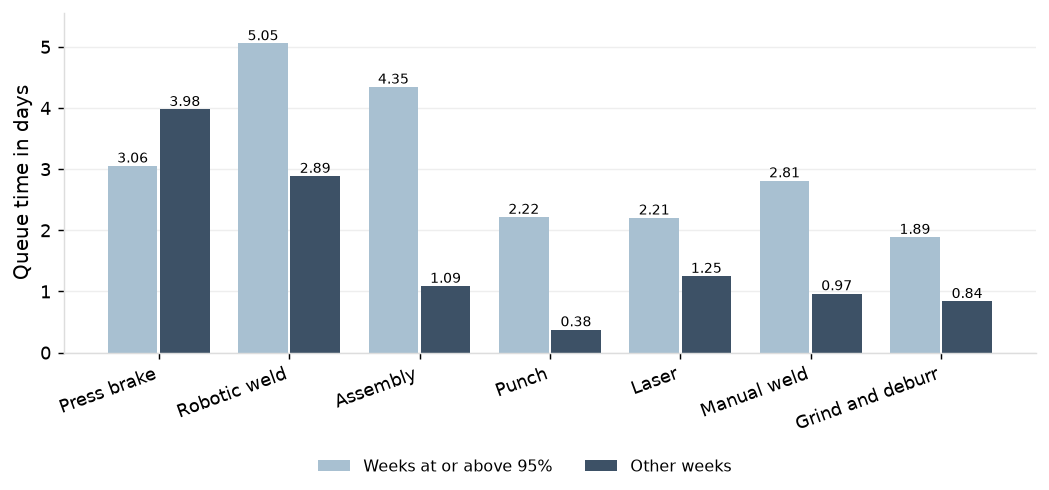
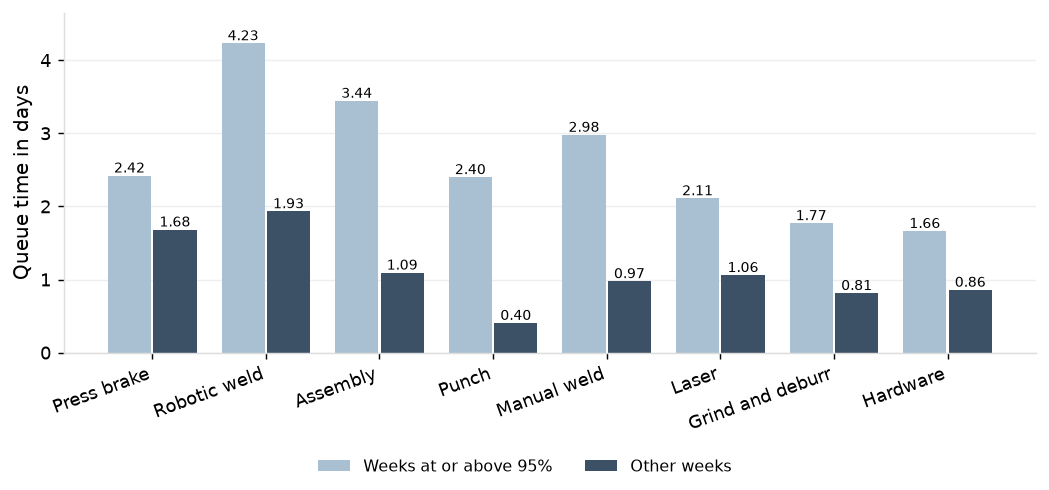
Capacity report: queue time in weeks at or above 95% utilization over 2023 to 2025

diff --git a/docs/reports/capacity_constraints_and_setups.html b/docs/reports/capacity_constraints_and_setups.html
@@ -63,8 +63,8 @@ nav.toc a.sub { font-size: 12px; padding-left: 22px; }
 <div class='chart-title'>Utilization and Machine Uptime by Work Center</div><img alt="Utilization and Machine Uptime by Work Center" src="../figures/constraint_utilization_uptime.png?v=398f0550">
 <p>Not only do the press brakes and robotic weld cell have the highest average utilization, they also spend more time than any other work station at or near maximum utilization. Shown below is the share of weeks in 2025 that each work station spent at or above 95% average utilization. The press brakes and the robotic weld cell were at this level in 46% and 38% of weeks throughout the year. See Appendix Table <a href='#t2'>2</a> for additional detail.</p>
 <div class='chart-title'>Share of weeks at or above 95% utilization, 2025</div><img alt="Share of weeks at or above 95% utilization, 2025" src="../figures/capacity_hot_week_share.png?v=5980e1e8">
-<p>Work stations experienced an increase in queue time when operating near maximum utilization, compared to weeks at lower utilization. Notably, the press brakes were the exception: their queue time in weeks at or above 95% utilization was lower than in their other weeks (3.06 days against 3.98). This is because the other weeks on this station are still running at 85% to 95% utilization in 19 of 28 cases and carry the backlog of the weeks before them.</p>
-<div class='chart-title'>Queue Time in Weeks at or Above 95% Utilization and Other Weeks, 2025</div><img alt="Queue Time in Weeks at or Above 95% Utilization and Other Weeks, 2025" src="../figures/capacity_queue_in_hot_weeks_year.png?v=5e865f9a">
+<p>Work stations experienced an increase in queue time when operating near maximum utilization, compared to weeks at lower utilization. Notably, the increase in queue time in weeks spent at or above 95% utilization was lowest for the press brakes (2.42 days against 1.68, 1.4x). This is because the other weeks on this station still run at high utilization, at 85% to 95% in 19 of 28 such weeks in 2025, and carry the backlog of the weeks before them.</p>
+<div class='chart-title'>Queue Time in Weeks at or Above 95% Utilization and Other Weeks, 2023 to 2025</div><img alt="Queue Time in Weeks at or Above 95% Utilization and Other Weeks, 2023 to 2025" src="../figures/capacity_queue_in_hot_weeks_year.png?v=cd2298d2">
 <p>Throughout 2025, jobs spent 36,318 days waiting at a work center after their first operation. The press brake station accounted for 56% of those days, which is a function of its consistently high utilization, as well as its volume of operations. There were nearly 5,700 brake operations in 2025. The robotic weld cell, which saw similar queue times to the press brakes (3.64 days per operation against 3.54), accounted for less than 5% of queue days, because it saw only 423 operations in 2025.</p>
 <div class='chart-title'>Share of queue days by work center, 2025</div><img alt="Share of queue days by work center, 2025" src="../figures/capacity_share_of_queue_days.png?v=cc48b974">
 <h2 id='f2'>2. Load, Queue Time and WIP</h2>
@@ -128,7 +128,7 @@ nav.toc a.sub { font-size: 12px; padding-left: 22px; }
 <p>With the stale standards refreshed, planned hours rise 1.7% at the brakes and 0.9% to 3.0% elsewhere; standard hours per job rise 8% on jobs for those parts (24% of jobs) and 1.9% overall. With the L2 and L3 run standards set to measured, planned laser hours fall 13.6% and standard hours per job fall 2.6%. Both together move standard hours per job by -0.7%. The 553 stale standards should be refreshed and the L2 and L3 run standards set to measured, with the effect on standard hours per job going to estimating (<a href='quoting_and_early_warning.html'>Quoting and Early Warning from Load</a>). See Appendix Tables <a href='#t30'>30</a> and <a href='#t31'>31</a> for additional detail.</p>
 <h2 id='appendix'>Appendix</h2>
 <h3 id='t1'>Table 1. Utilization and machine uptime by work center</h3><table class="data"><thead><tr><th>Work center</th><th>Machines</th><th>Operations</th><th>Scheduled hours</th><th>Machine hours</th><th>Downtime hours</th><th>Available hours</th><th>Utilization</th><th>Uptime</th><th>Queue time, mean</th><th>Utilization, Q2-Q4</th><th>Uptime, Q2-Q4</th><th>Queue time, mean, Q2-Q4</th></tr></thead><tbody><tr><td class="">Press brake</td><td class="">5</td><td class="">5,692</td><td class="">18,300</td><td class="">16,268</td><td class="">470</td><td class="">17,830</td><td class="">91%</td><td class="">97%</td><td class="">3.54</td><td class="">91%</td><td class="">97%</td><td class="">1.77</td></tr><tr><td class="">Robotic weld</td><td class="">1</td><td class="">423</td><td class="">1,992</td><td class="">1,598</td><td class="">57</td><td class="">1,935</td><td class="">83%</td><td class="">97%</td><td class="">3.64</td><td class="">83%</td><td class="">97%</td><td class="">3.93</td></tr><tr><td class="">Laser</td><td class="">3</td><td class="">4,378</td><td class="">10,152</td><td class="">7,242</td><td class="">329</td><td class="">9,823</td><td class="">74%</td><td class="">97%</td><td class=""></td><td class="">74%</td><td class="">97%</td><td class=""></td></tr><tr><td class="">Assembly</td><td class="">2</td><td class="">695</td><td class="">3,984</td><td class="">2,669</td><td class="">100</td><td class="">3,884</td><td class="">69%</td><td class="">97%</td><td class="">1.91</td><td class="">67%</td><td class="">97%</td><td class="">1.58</td></tr><tr><td class="">Inspection and pack</td><td class="">2</td><td class="">5,241</td><td class="">3,984</td><td class="">2,573</td><td class="">144</td><td class="">3,840</td><td class="">67%</td><td class="">96%</td><td class="">0.65</td><td class="">65%</td><td class="">96%</td><td class="">0.68</td></tr><tr><td class="">Grind and deburr</td><td class="">2</td><td class="">5,680</td><td class="">3,984</td><td class="">2,586</td><td class="">115</td><td class="">3,869</td><td class="">67%</td><td class="">97%</td><td class="">0.88</td><td class="">65%</td><td class="">97%</td><td class="">0.79</td></tr><tr><td class="">Manual weld</td><td class="">6</td><td class="">1,568</td><td class="">11,952</td><td class="">7,693</td><td class="">346</td><td class="">11,606</td><td class="">66%</td><td class="">97%</td><td class="">1.07</td><td class="">62%</td><td class="">97%</td><td class="">0.83</td></tr><tr><td class="">Punch</td><td class="">1</td><td class="">820</td><td class="">1,992</td><td class="">1,284</td><td class="">49</td><td class="">1,943</td><td class="">66%</td><td class="">98%</td><td class=""></td><td class="">64%</td><td class="">98%</td><td class=""></td></tr><tr><td class="">Hardware</td><td class="">2</td><td class="">2,167</td><td class="">3,984</td><td class="">2,572</td><td class="">83</td><td class="">3,901</td><td class="">66%</td><td class="">98%</td><td class="">0.87</td><td class="">65%</td><td class="">98%</td><td class="">0.87</td></tr><tr><td class="">Powder coat</td><td class="">1</td><td class="">2,367</td><td class="">2,044</td><td class="">1,106</td><td class="">53</td><td class="">1,991</td><td class="">56%</td><td class="">97%</td><td class="">0.56</td><td class="">54%</td><td class="">98%</td><td class="">0.53</td></tr></tbody></table>
-<h3 id='t2'>Table 2. Weekly utilization at or above 95% by work center: weeks, queue time, jobs at the work center and share of hours</h3><p><b>2025</b></p><table class="data"><thead><tr><th>Work center</th><th>Utilization</th><th>Weeks at or above 95%</th><th>Of which full five-day weeks</th><th>Queue time in those weeks</th><th>Queue time in the other weeks</th><th>Jobs at the work center in those weeks, daily mean</th><th>Jobs at the work center in the other weeks, daily mean</th><th>Share of machine hours in those weeks</th></tr></thead><tbody><tr><td class="">Press brake</td><td class="">91%</td><td class="">24 of 52</td><td class="">20</td><td class="">3.06</td><td class="">3.98</td><td class="">63.5</td><td class="">86.0</td><td class="">48%</td></tr><tr><td class="">Robotic weld</td><td class="">83%</td><td class="">20 of 52</td><td class="">15</td><td class="">5.05</td><td class="">2.89</td><td class="">9.2</td><td class="">5.5</td><td class="">44%</td></tr><tr><td class="">Laser</td><td class="">74%</td><td class="">4 of 52</td><td class="">3</td><td class="">2.21</td><td class="">1.25</td><td class="">91.3</td><td class="">48.4</td><td class="">9%</td></tr><tr><td class="">Assembly</td><td class="">69%</td><td class="">11 of 52</td><td class="">10</td><td class="">4.35</td><td class="">1.09</td><td class="">12.7</td><td class="">4.6</td><td class="">30%</td></tr><tr><td class="">Inspection and pack</td><td class="">67%</td><td class="">0 of 52</td><td class="">0</td><td class=""></td><td class="">0.65</td><td class=""></td><td class="">14.5</td><td class="">0%</td></tr><tr><td class="">Grind and deburr</td><td class="">67%</td><td class="">2 of 52</td><td class="">1</td><td class="">1.89</td><td class="">0.84</td><td class="">45.8</td><td class="">19.9</td><td class="">4%</td></tr><tr><td class="">Manual weld</td><td class="">66%</td><td class="">3 of 52</td><td class="">3</td><td class="">2.81</td><td class="">0.97</td><td class="">28.4</td><td class="">9.4</td><td class="">9%</td></tr><tr><td class="">Punch</td><td class="">66%</td><td class="">10 of 52</td><td class="">8</td><td class="">2.22</td><td class="">0.38</td><td class="">13.3</td><td class="">6.8</td><td class="">27%</td></tr><tr><td class="">Hardware</td><td class="">66%</td><td class="">0 of 52</td><td class="">0</td><td class=""></td><td class="">0.87</td><td class=""></td><td class="">9.5</td><td class="">0%</td></tr><tr><td class="">Powder coat</td><td class="">56%</td><td class="">0 of 52</td><td class="">0</td><td class=""></td><td class="">0.56</td><td class=""></td><td class="">15.1</td><td class="">0%</td></tr></tbody></table><p><b>2025 Q2-Q4</b></p><table class="data"><thead><tr><th>Work center</th><th>Utilization</th><th>Weeks at or above 95%</th><th>Of which full five-day weeks</th><th>Queue time in those weeks</th><th>Queue time in the other weeks</th><th>Jobs at the work center in those weeks, daily mean</th><th>Jobs at the work center in the other weeks, daily mean</th><th>Share of machine hours in those weeks</th></tr></thead><tbody><tr><td class="">Press brake</td><td class="">91%</td><td class="">21 of 39</td><td class="">17</td><td class="">2.00</td><td class="">1.57</td><td class="">41.0</td><td class="">35.0</td><td class="">57%</td></tr><tr><td class="">Robotic weld</td><td class="">83%</td><td class="">17 of 39</td><td class="">13</td><td class="">5.26</td><td class="">2.94</td><td class="">9.9</td><td class="">5.9</td><td class="">50%</td></tr><tr><td class="">Laser</td><td class="">74%</td><td class="">3 of 39</td><td class="">3</td><td class="">1.99</td><td class="">0.83</td><td class="">78.8</td><td class="">46.3</td><td class="">10%</td></tr><tr><td class="">Assembly</td><td class="">67%</td><td class="">5 of 39</td><td class="">5</td><td class="">3.72</td><td class="">1.15</td><td class="">10.9</td><td class="">5.0</td><td class="">19%</td></tr><tr><td class="">Hardware</td><td class="">65%</td><td class="">0 of 39</td><td class="">0</td><td class=""></td><td class="">0.88</td><td class=""></td><td class="">9.8</td><td class="">0%</td></tr><tr><td class="">Inspection and pack</td><td class="">65%</td><td class="">0 of 39</td><td class="">0</td><td class=""></td><td class="">0.68</td><td class=""></td><td class="">15.3</td><td class="">0%</td></tr><tr><td class="">Grind and deburr</td><td class="">65%</td><td class="">0 of 39</td><td class="">0</td><td class=""></td><td class="">0.79</td><td class=""></td><td class="">19.6</td><td class="">0%</td></tr><tr><td class="">Punch</td><td class="">64%</td><td class="">7 of 39</td><td class="">6</td><td class="">1.26</td><td class="">0.26</td><td class="">11.2</td><td class="">6.6</td><td class="">27%</td></tr><tr><td class="">Manual weld</td><td class="">62%</td><td class="">1 of 39</td><td class="">1</td><td class="">2.58</td><td class="">0.78</td><td class="">25.4</td><td class="">8.5</td><td class="">4%</td></tr><tr><td class="">Powder coat</td><td class="">54%</td><td class="">0 of 39</td><td class="">0</td><td class=""></td><td class="">0.53</td><td class=""></td><td class="">14.4</td><td class="">0%</td></tr></tbody></table><p><b>Brake queue 90th percentile by quarter, 2025</b></p><table class="data"><thead><tr><th>Q1</th><th>Q2</th><th>Q3</th><th>Q4</th></tr></thead><tbody><tr><td class="">17.1</td><td class="">9.1</td><td class="">2.8</td><td class="">3.0</td></tr></tbody></table>
+<h3 id='t2'>Table 2. Weekly utilization at or above 95% by work center: weeks, queue time, jobs at the work center and share of hours</h3><p><b>2025</b></p><table class="data"><thead><tr><th>Work center</th><th>Utilization</th><th>Weeks at or above 95%</th><th>Of which full five-day weeks</th><th>Queue time in those weeks</th><th>Queue time in the other weeks</th><th>Jobs at the work center in those weeks, daily mean</th><th>Jobs at the work center in the other weeks, daily mean</th><th>Share of machine hours in those weeks</th></tr></thead><tbody><tr><td class="">Press brake</td><td class="">91%</td><td class="">24 of 52</td><td class="">20</td><td class="">3.06</td><td class="">3.98</td><td class="">63.5</td><td class="">86.0</td><td class="">48%</td></tr><tr><td class="">Robotic weld</td><td class="">83%</td><td class="">20 of 52</td><td class="">15</td><td class="">5.05</td><td class="">2.89</td><td class="">9.2</td><td class="">5.5</td><td class="">44%</td></tr><tr><td class="">Laser</td><td class="">74%</td><td class="">4 of 52</td><td class="">3</td><td class="">2.21</td><td class="">1.25</td><td class="">91.3</td><td class="">48.4</td><td class="">9%</td></tr><tr><td class="">Assembly</td><td class="">69%</td><td class="">11 of 52</td><td class="">10</td><td class="">4.35</td><td class="">1.09</td><td class="">12.7</td><td class="">4.6</td><td class="">30%</td></tr><tr><td class="">Inspection and pack</td><td class="">67%</td><td class="">0 of 52</td><td class="">0</td><td class=""></td><td class="">0.65</td><td class=""></td><td class="">14.5</td><td class="">0%</td></tr><tr><td class="">Grind and deburr</td><td class="">67%</td><td class="">2 of 52</td><td class="">1</td><td class="">1.89</td><td class="">0.84</td><td class="">45.8</td><td class="">19.9</td><td class="">4%</td></tr><tr><td class="">Manual weld</td><td class="">66%</td><td class="">3 of 52</td><td class="">3</td><td class="">2.81</td><td class="">0.97</td><td class="">28.4</td><td class="">9.4</td><td class="">9%</td></tr><tr><td class="">Punch</td><td class="">66%</td><td class="">10 of 52</td><td class="">8</td><td class="">2.22</td><td class="">0.38</td><td class="">13.3</td><td class="">6.8</td><td class="">27%</td></tr><tr><td class="">Hardware</td><td class="">66%</td><td class="">0 of 52</td><td class="">0</td><td class=""></td><td class="">0.87</td><td class=""></td><td class="">9.5</td><td class="">0%</td></tr><tr><td class="">Powder coat</td><td class="">56%</td><td class="">0 of 52</td><td class="">0</td><td class=""></td><td class="">0.56</td><td class=""></td><td class="">15.1</td><td class="">0%</td></tr></tbody></table><p><b>2025 Q2-Q4</b></p><table class="data"><thead><tr><th>Work center</th><th>Utilization</th><th>Weeks at or above 95%</th><th>Of which full five-day weeks</th><th>Queue time in those weeks</th><th>Queue time in the other weeks</th><th>Jobs at the work center in those weeks, daily mean</th><th>Jobs at the work center in the other weeks, daily mean</th><th>Share of machine hours in those weeks</th></tr></thead><tbody><tr><td class="">Press brake</td><td class="">91%</td><td class="">21 of 39</td><td class="">17</td><td class="">2.00</td><td class="">1.57</td><td class="">41.0</td><td class="">35.0</td><td class="">57%</td></tr><tr><td class="">Robotic weld</td><td class="">83%</td><td class="">17 of 39</td><td class="">13</td><td class="">5.26</td><td class="">2.94</td><td class="">9.9</td><td class="">5.9</td><td class="">50%</td></tr><tr><td class="">Laser</td><td class="">74%</td><td class="">3 of 39</td><td class="">3</td><td class="">1.99</td><td class="">0.83</td><td class="">78.8</td><td class="">46.3</td><td class="">10%</td></tr><tr><td class="">Assembly</td><td class="">67%</td><td class="">5 of 39</td><td class="">5</td><td class="">3.72</td><td class="">1.15</td><td class="">10.9</td><td class="">5.0</td><td class="">19%</td></tr><tr><td class="">Hardware</td><td class="">65%</td><td class="">0 of 39</td><td class="">0</td><td class=""></td><td class="">0.88</td><td class=""></td><td class="">9.8</td><td class="">0%</td></tr><tr><td class="">Inspection and pack</td><td class="">65%</td><td class="">0 of 39</td><td class="">0</td><td class=""></td><td class="">0.68</td><td class=""></td><td class="">15.3</td><td class="">0%</td></tr><tr><td class="">Grind and deburr</td><td class="">65%</td><td class="">0 of 39</td><td class="">0</td><td class=""></td><td class="">0.79</td><td class=""></td><td class="">19.6</td><td class="">0%</td></tr><tr><td class="">Punch</td><td class="">64%</td><td class="">7 of 39</td><td class="">6</td><td class="">1.26</td><td class="">0.26</td><td class="">11.2</td><td class="">6.6</td><td class="">27%</td></tr><tr><td class="">Manual weld</td><td class="">62%</td><td class="">1 of 39</td><td class="">1</td><td class="">2.58</td><td class="">0.78</td><td class="">25.4</td><td class="">8.5</td><td class="">4%</td></tr><tr><td class="">Powder coat</td><td class="">54%</td><td class="">0 of 39</td><td class="">0</td><td class=""></td><td class="">0.53</td><td class=""></td><td class="">14.4</td><td class="">0%</td></tr></tbody></table><p><b>2023 to 2025</b></p><table class="data"><thead><tr><th>Work center</th><th>Weeks at or above 95%</th><th>Queue time in those weeks</th><th>Queue time in the other weeks</th></tr></thead><tbody><tr><td class="">Press brake</td><td class="">40 of 155</td><td class="">2.42</td><td class="">1.68</td></tr><tr><td class="">Robotic weld</td><td class="">39 of 155</td><td class="">4.23</td><td class="">1.93</td></tr><tr><td class="">Assembly</td><td class="">20 of 155</td><td class="">3.44</td><td class="">1.09</td></tr><tr><td class="">Punch</td><td class="">18 of 155</td><td class="">2.40</td><td class="">0.40</td></tr><tr><td class="">Manual weld</td><td class="">7 of 155</td><td class="">2.98</td><td class="">0.97</td></tr><tr><td class="">Laser</td><td class="">6 of 155</td><td class="">2.11</td><td class="">1.06</td></tr><tr><td class="">Grind and deburr</td><td class="">3 of 155</td><td class="">1.77</td><td class="">0.81</td></tr><tr><td class="">Hardware</td><td class="">2 of 155</td><td class="">1.66</td><td class="">0.86</td></tr><tr><td class="">Powder coat</td><td class="">0 of 155</td><td class=""></td><td class="">0.54</td></tr><tr><td class="">Inspection and pack</td><td class="">0 of 155</td><td class=""></td><td class="">0.68</td></tr></tbody></table><p><b>Brake queue 90th percentile by quarter, 2025</b></p><table class="data"><thead><tr><th>Q1</th><th>Q2</th><th>Q3</th><th>Q4</th></tr></thead><tbody><tr><td class="">17.1</td><td class="">9.1</td><td class="">2.8</td><td class="">3.0</td></tr></tbody></table>
 <h3 id='t3'>Table 3. Weekly queue time by utilization band and work center, full weeks 2023 to 2025</h3><table class="data"><thead><tr><th>Work center</th><th>Utilization in the week</th><th>Weeks</th><th>Queue time, mean of weeks</th><th>Median</th></tr></thead><tbody><tr><td class="">Press brake</td><td class="">below 80%</td><td class="">55</td><td class="">0.45</td><td class="">0.32</td></tr><tr><td class="">Press brake</td><td class="">80% to 85%</td><td class="">12</td><td class="">0.47</td><td class="">0.40</td></tr><tr><td class="">Press brake</td><td class="">85% to 90%</td><td class="">14</td><td class="">2.68</td><td class="">1.08</td></tr><tr><td class="">Press brake</td><td class="">90% to 95%</td><td class="">24</td><td class="">3.37</td><td class="">2.06</td></tr><tr><td class="">Press brake</td><td class="">at or above 95%</td><td class="">33</td><td class="">2.41</td><td class="">1.31</td></tr><tr><td class="">Robotic weld</td><td class="">below 80%</td><td class="">74</td><td class="">1.17</td><td class="">0.67</td></tr><tr><td class="">Robotic weld</td><td class="">80% to 85%</td><td class="">15</td><td class="">2.81</td><td class="">1.84</td></tr><tr><td class="">Robotic weld</td><td class="">85% to 90%</td><td class="">11</td><td class="">3.84</td><td class="">3.52</td></tr><tr><td class="">Robotic weld</td><td class="">90% to 95%</td><td class="">6</td><td class="">1.73</td><td class="">1.83</td></tr><tr><td class="">Robotic weld</td><td class="">at or above 95%</td><td class="">30</td><td class="">4.34</td><td class="">3.71</td></tr><tr><td class="">Laser</td><td class="">below 80%</td><td class="">101</td><td class="">0.68</td><td class="">0.58</td></tr><tr><td class="">Laser</td><td class="">80% to 85%</td><td class="">15</td><td class="">1.30</td><td class="">1.00</td></tr><tr><td class="">Laser</td><td class="">85% to 90%</td><td class="">10</td><td class="">1.28</td><td class="">0.92</td></tr><tr><td class="">Laser</td><td class="">90% to 95%</td><td class="">7</td><td class="">2.82</td><td class="">2.54</td></tr><tr><td class="">Laser</td><td class="">at or above 95%</td><td class="">5</td><td class="">2.07</td><td class="">1.99</td></tr><tr><td class="">Assembly</td><td class="">below 80%</td><td class="">108</td><td class="">0.81</td><td class="">0.71</td></tr><tr><td class="">Assembly</td><td class="">80% to 85%</td><td class="">4</td><td class="">1.80</td><td class="">1.92</td></tr><tr><td class="">Assembly</td><td class="">85% to 90%</td><td class="">5</td><td class="">2.09</td><td class="">0.82</td></tr><tr><td class="">Assembly</td><td class="">90% to 95%</td><td class="">4</td><td class="">1.86</td><td class="">1.80</td></tr><tr><td class="">Assembly</td><td class="">at or above 95%</td><td class="">17</td><td class="">3.15</td><td class="">2.41</td></tr><tr><td class="">Inspection and pack</td><td class="">below 80%</td><td class="">130</td><td class="">0.67</td><td class="">0.67</td></tr><tr><td class="">Inspection and pack</td><td class="">80% to 85%</td><td class="">7</td><td class="">0.65</td><td class="">0.66</td></tr><tr><td class="">Inspection and pack</td><td class="">85% to 90%</td><td class="">1</td><td class="">0.64</td><td class="">0.64</td></tr><tr><td class="">Grind and deburr</td><td class="">below 80%</td><td class="">125</td><td class="">0.77</td><td class="">0.75</td></tr><tr><td class="">Grind and deburr</td><td class="">80% to 85%</td><td class="">8</td><td class="">1.06</td><td class="">1.03</td></tr><tr><td class="">Grind and deburr</td><td class="">85% to 90%</td><td class="">3</td><td class="">0.75</td><td class="">0.73</td></tr><tr><td class="">Grind and deburr</td><td class="">at or above 95%</td><td class="">2</td><td class="">1.60</td><td class="">1.60</td></tr><tr><td class="">Manual weld</td><td class="">below 80%</td><td class="">109</td><td class="">0.71</td><td class="">0.67</td></tr><tr><td class="">Manual weld</td><td class="">80% to 85%</td><td class="">9</td><td class="">1.03</td><td class="">0.98</td></tr><tr><td class="">Manual weld</td><td class="">85% to 90%</td><td class="">10</td><td class="">1.65</td><td class="">0.83</td></tr><tr><td class="">Manual weld</td><td class="">90% to 95%</td><td class="">4</td><td class="">1.48</td><td class="">1.03</td></tr><tr><td class="">Manual weld</td><td class="">at or above 95%</td><td class="">6</td><td class="">3.26</td><td class="">2.50</td></tr><tr><td class="">Punch</td><td class="">below 80%</td><td class="">111</td><td class="">0.19</td><td class="">0.09</td></tr><tr><td class="">Punch</td><td class="">80% to 85%</td><td class="">3</td><td class="">0.48</td><td class="">0.52</td></tr><tr><td class="">Punch</td><td class="">85% to 90%</td><td class="">5</td><td class="">1.96</td><td class="">2.03</td></tr><tr><td class="">Punch</td><td class="">90% to 95%</td><td class="">5</td><td class="">0.87</td><td class="">0.93</td></tr><tr><td class="">Punch</td><td class="">at or above 95%</td><td class="">14</td><td class="">2.02</td><td class="">1.52</td></tr><tr><td class="">Hardware</td><td class="">below 80%</td><td class="">120</td><td class="">0.80</td><td class="">0.77</td></tr><tr><td class="">Hardware</td><td class="">80% to 85%</td><td class="">8</td><td class="">0.97</td><td class="">0.89</td></tr><tr><td class="">Hardware</td><td class="">85% to 90%</td><td class="">6</td><td class="">1.01</td><td class="">0.99</td></tr><tr><td class="">Hardware</td><td class="">90% to 95%</td><td class="">2</td><td class="">1.07</td><td class="">1.07</td></tr><tr><td class="">Hardware</td><td class="">at or above 95%</td><td class="">2</td><td class="">1.64</td><td class="">1.64</td></tr><tr><td class="">Powder coat</td><td class="">below 80%</td><td class="">138</td><td class="">0.52</td><td class="">0.46</td></tr></tbody></table><p><b>Manual weld, split at 85% utilization, full weeks 2023 to 2025</b></p><table class="data"><thead><tr><th>Manual weld</th><th>Weeks</th><th>Queue time, mean of weeks</th></tr></thead><tbody><tr><td class="">Below 85%</td><td class="">118</td><td class="">0.74</td></tr><tr><td class="">At or above 85%</td><td class="">20</td><td class="">2.10</td></tr><tr><td class="">Weeks of 2025 at or above 85%</td><td class="">11 of 52</td><td class=""></td></tr></tbody></table>
 <h3 id='t4'>Table 4. Fitted queue time curve by work center</h3><table class="data"><thead><tr><th>Work center</th><th>Machines (m)</th><th>Scale k</th><th>R-squared, 13-week</th><th>Rank correlation</th><th>Utilization range fitted</th><th>R-squared, single weeks</th><th>Queue time at 75%</th><th>At 85%</th><th>At 90%</th><th>At 92%</th></tr></thead><tbody><tr><td class="">Punch</td><td class="">1</td><td class="">0.386</td><td class="">0.64</td><td class="">0.83</td><td class="">43% to 81%</td><td class="">-0.01</td><td class="">1.16</td><td class="">2.19</td><td class="">3.48</td><td class="">4.44</td></tr><tr><td class="">Assembly</td><td class="">2</td><td class="">1.598</td><td class="">0.61</td><td class="">0.86</td><td class="">41% to 86%</td><td class="">-0.56</td><td class="">2.11</td><td class="">4.21</td><td class="">6.86</td><td class="">8.85</td></tr><tr><td class="">Robotic weld</td><td class="">1</td><td class="">0.599</td><td class="">0.60</td><td class="">0.83</td><td class="">38% to 94%</td><td class="">-0.10</td><td class="">1.80</td><td class="">3.40</td><td class="">5.39</td><td class="">6.89</td></tr><tr><td class="">Laser</td><td class="">3</td><td class="">1.676</td><td class="">0.53</td><td class="">0.82</td><td class="">52% to 84%</td><td class="">-0.17</td><td class="">1.32</td><td class="">2.77</td><td class="">4.61</td><td class="">5.99</td></tr><tr><td class="">Press brake</td><td class="">5</td><td class="">1.692</td><td class="">0.45</td><td class="">0.88</td><td class="">67% to 95%</td><td class="">0.09</td><td class="">0.67</td><td class="">1.51</td><td class="">2.61</td><td class="">3.44</td></tr><tr><td class="">Manual weld</td><td class="">6</td><td class="">6.455</td><td class="">0.27</td><td class="">0.67</td><td class="">43% to 79%</td><td class="">-0.49</td><td class="">1.96</td><td class="">4.59</td><td class="">8.06</td><td class="">10.70</td></tr><tr><td class="">Powder coat</td><td class="">1</td><td class="">0.522</td><td class="">-0.41</td><td class="">0.33</td><td class="">40% to 61%</td><td class="">-0.16</td><td class="">1.56</td><td class="">2.96</td><td class="">4.69</td><td class="">6.00</td></tr><tr><td class="">Grind and deburr</td><td class="">2</td><td class="">1.098</td><td class="">-5.26</td><td class="">0.68</td><td class="">46% to 75%</td><td class="">-13.00</td><td class="">1.45</td><td class="">2.89</td><td class="">4.71</td><td class="">6.08</td></tr><tr><td class="">Hardware</td><td class="">2</td><td class="">1.284</td><td class="">-14.65</td><td class="">0.39</td><td class="">46% to 71%</td><td class="">-10.85</td><td class="">1.69</td><td class="">3.38</td><td class="">5.51</td><td class="">7.11</td></tr><tr><td class="">Inspection and pack</td><td class="">2</td><td class="">0.954</td><td class="">-33.70</td><td class="">-0.61</td><td class="">46% to 73%</td><td class="">-20.86</td><td class="">1.26</td><td class="">2.51</td><td class="">4.09</td><td class="">5.28</td></tr></tbody></table>
 <h3 id='t5'>Table 5. Position of each work center on its curve</h3><table class="data"><thead><tr><th>Work center</th><th>Utilization</th><th>Queue time measured</th><th>Queue time on curve</th><th>Weeks at or above 95%</th><th>Utilization, Q2-Q4</th><th>Queue time measured, Q2-Q4</th><th>Queue time on curve, Q2-Q4</th><th>Weeks at or above 95%, Q2-Q4</th></tr></thead><tbody><tr><td class="">Press brake</td><td class="">91%</td><td class="">3.54</td><td class="">3.08</td><td class="">24 of 52</td><td class="">91%</td><td class="">1.81</td><td class="">2.91</td><td class="">21 of 39</td></tr><tr><td class="">Robotic weld</td><td class="">83%</td><td class="">3.64</td><td class="">2.84</td><td class="">20 of 52</td><td class="">83%</td><td class="">3.90</td><td class="">3.01</td><td class="">17 of 39</td></tr><tr><td class="">Laser</td><td class="">74%</td><td class="">1.31</td><td class="">1.22</td><td class="">4 of 52</td><td class="">74%</td><td class="">0.91</td><td class="">1.22</td><td class="">3 of 39</td></tr><tr><td class="">Assembly</td><td class="">69%</td><td class="">1.91</td><td class="">1.48</td><td class="">11 of 52</td><td class="">67%</td><td class="">1.58</td><td class="">1.36</td><td class="">5 of 39</td></tr><tr><td class="">Inspection and pack</td><td class="">67%</td><td class="">0.65</td><td class="">0.81</td><td class="">0 of 52</td><td class="">65%</td><td class="">0.68</td><td class="">0.73</td><td class="">0 of 39</td></tr><tr><td class="">Grind and deburr</td><td class="">67%</td><td class="">0.88</td><td class="">0.92</td><td class="">2 of 52</td><td class="">65%</td><td class="">0.79</td><td class="">0.84</td><td class="">0 of 39</td></tr><tr><td class="">Manual weld</td><td class="">66%</td><td class="">1.07</td><td class="">1.03</td><td class="">3 of 52</td><td class="">62%</td><td class="">0.83</td><td class="">0.78</td><td class="">1 of 39</td></tr><tr><td class="">Punch</td><td class="">66%</td><td class="">0.76</td><td class="">0.75</td><td class="">10 of 52</td><td class="">64%</td><td class="">0.44</td><td class="">0.67</td><td class="">7 of 39</td></tr><tr><td class="">Hardware</td><td class="">66%</td><td class="">0.87</td><td class="">1.03</td><td class="">0 of 52</td><td class="">65%</td><td class="">0.88</td><td class="">1.00</td><td class="">0 of 39</td></tr><tr><td class="">Powder coat</td><td class="">56%</td><td class="">0.56</td><td class="">0.65</td><td class="">0 of 52</td><td class="">54%</td><td class="">0.53</td><td class="">0.61</td><td class="">0 of 39</td></tr></tbody></table>

diff --git a/analytics/reports/capacity_constraints_and_setups.py b/analytics/reports/capacity_constraints_and_setups.py
@@ -27,6 +27,7 @@ d1, d2, d3, n0, rng = C.d1, C.d2, C.d3, C.n0, C.rng
 X = SC.load()
 HOT = SC.hot_weeks(X).set_index(["period", "work_center"])
 HY, HR = HOT.loc["year"], HOT.loc[REST]
+HALL = SC.hot_weeks_all(X)
 BY_START, HOURS, BRAKE_HOURS = SC.dispatch(X)
 START_Y, START_R = BY_START[BY_START["period"] == "year"].set_index("work_center"), BY_START[BY_START["period"] == REST].set_index("work_center")
 NEXT_DAY = SC.next_day_wait(X)
@@ -121,14 +122,14 @@ def fig_hot_share():
 
 
 def fig_hot_year():
-    """Queue time in the year's weeks at or above 95% utilization against its other weeks, for the work centers that had one."""
-    d = HY.loc[HOT_ORDER]
+    """Queue time in the weeks at or above 95% utilization against the other weeks of 2023 to 2025, for the work centers that had one."""
+    d = HALL[HALL["hot_weeks"] > 0]
     f, ax = fig(h=3.8)
     paired_columns(ax, [WC[w] for w in d.index], list(d["queue_hot"]), list(d["queue_other"]), ("Weeks at or above 95%", "Other weeks"), decimals=2)
     ax.set_ylabel("Queue time in days")
     f.legend(*ax.get_legend_handles_labels(), frameon=False, fontsize=9, ncol=2, loc="lower center")
     f.tight_layout(rect=(0, 0.06, 1, 1))
-    return save(f, "capacity_queue_in_hot_weeks_year", f"Queue Time in Weeks at or Above 95% Utilization and Other Weeks, {YEAR}")
+    return save(f, "capacity_queue_in_hot_weeks_year", "Queue Time in Weeks at or Above 95% Utilization and Other Weeks, 2023 to 2025")
 
 
 def fig_queue_days():
@@ -369,6 +370,8 @@ def t_hot():
         out += block(per, table(pd.DataFrame(rows, columns=["Work center", "Utilization", "Weeks at or above 95%", "Of which full five-day weeks",
                                                              "Queue time in those weeks", "Queue time in the other weeks", "Jobs at the work center in those weeks, daily mean",
                                                              "Jobs at the work center in the other weeks, daily mean", "Share of machine hours in those weeks"])))
+    rows = [[WC[w], f"{int(r['hot_weeks'])} of {int(r['weeks'])}", blank(r["queue_hot"]), d2(r["queue_other"])] for w, r in HALL.iterrows()]
+    out += block("2023 to 2025", table(pd.DataFrame(rows, columns=["Work center", "Weeks at or above 95%", "Queue time in those weeks", "Queue time in the other weeks"])))
     BQ = C.BQ
     return out + block(f"Brake queue 90th percentile by quarter, {YEAR}",
                        table(pd.DataFrame([[d1(BQ.loc[k, "queue_p90"]) for k in (1, 2, 3, 4)]], columns=["Q1", "Q2", "Q3", "Q4"])))
@@ -523,15 +526,16 @@ def build():
              f"brakes and the robotic weld cell were at this level in {P(hot_share['press_brake'])} and {P(hot_share['robotic_weld'])} of weeks throughout the "
              f"year. {T.see('hot')}</p>")
     b.append(chart(f"Share of weeks at or above 95% utilization, {YEAR}", fig_hot_share()))
-    others = [w for w in HOT_ORDER if w != "press_brake"]
-    assert all(HY.loc[w, "queue_hot"] > HY.loc[w, "queue_other"] for w in others) and HY.loc["press_brake", "queue_hot"] < HY.loc["press_brake", "queue_other"]
+    hall = HALL[HALL["hot_weeks"] > 0]
+    rise = hall["queue_hot"] / hall["queue_other"]
+    assert (rise > 1).all() and rise.idxmin() == "press_brake"
     bw = X["uw"][(X["uw"]["work_center"] == "press_brake") & (X["uw"]["week_year"] == YEAR) & (X["uw"]["utilization"] < SC.HOT)]
     b.append(f"<p>Work stations experienced an increase in queue time when operating near maximum utilization, compared to weeks at lower utilization. Notably, the "
-             f"press brakes were the exception: their queue time in weeks at or above 95% utilization was lower than in their other weeks "
-             f"({d2(HY.loc['press_brake', 'queue_hot'])} days against {d2(HY.loc['press_brake', 'queue_other'])}). This is because the other weeks on this station are "
-             f"still running at 85% to 95% utilization in {int((bw['utilization'] >= 0.85).sum())} of {len(bw)} cases and carry the backlog of the weeks before "
+             f"increase in queue time in weeks spent at or above 95% utilization was lowest for the press brakes ({d2(hall.loc['press_brake', 'queue_hot'])} days "
+             f"against {d2(hall.loc['press_brake', 'queue_other'])}, {rise['press_brake']:.1f}x). This is because the other weeks on this station still run at high "
+             f"utilization, at 85% to 95% in {int((bw['utilization'] >= 0.85).sum())} of {len(bw)} such weeks in {YEAR}, and carry the backlog of the weeks before "
              f"them.</p>")
-    b.append(chart(f"Queue Time in Weeks at or Above 95% Utilization and Other Weeks, {YEAR}", fig_hot_year()))
+    b.append(chart("Queue Time in Weeks at or Above 95% Utilization and Other Weeks, 2023 to 2025", fig_hot_year()))
     assert QDAYS.index[0] == "press_brake" and QDAYS.loc["robotic_weld", "share_of_queue"] < 0.05
     b.append(f"<p>Throughout {YEAR}, jobs spent {n0(QDAYS['queue_days'].sum())} days waiting at a work center after their first operation. The press brake station "
              f"accounted for {P(QDAYS.loc['press_brake', 'share_of_queue'])} of those days, which is a function of its consistently high utilization, as well as its "

diff --git a/analytics/constraint/screen.py b/analytics/constraint/screen.py
@@ -107,6 +107,15 @@ def hot_weeks(D):
     return pd.DataFrame(rows).sort_values(["period", "utilization"], ascending=[False, False])
 
 
+def hot_weeks_all(D):
+    """The same comparison over every week of the record: weeks at or above 95% utilization against the others, by work center."""
+    rows = []
+    for wc, w in D["uw"].groupby("work_center"):
+        hot, other = w[w["utilization"] >= HOT], w[w["utilization"] < HOT]
+        rows.append(dict(work_center=wc, weeks=len(w), hot_weeks=len(hot), queue_hot=weighted_queue(hot) if len(hot) else np.nan, queue_other=weighted_queue(other)))
+    return pd.DataFrame(rows).set_index("work_center").sort_values("hot_weeks", ascending=False)
+
+
 def dispatch(D):
     """Operations at the dispatch-list work centers by the working day they start after arriving, and arrivals by hour, the brakes beside them."""
     a = D["arr"]
